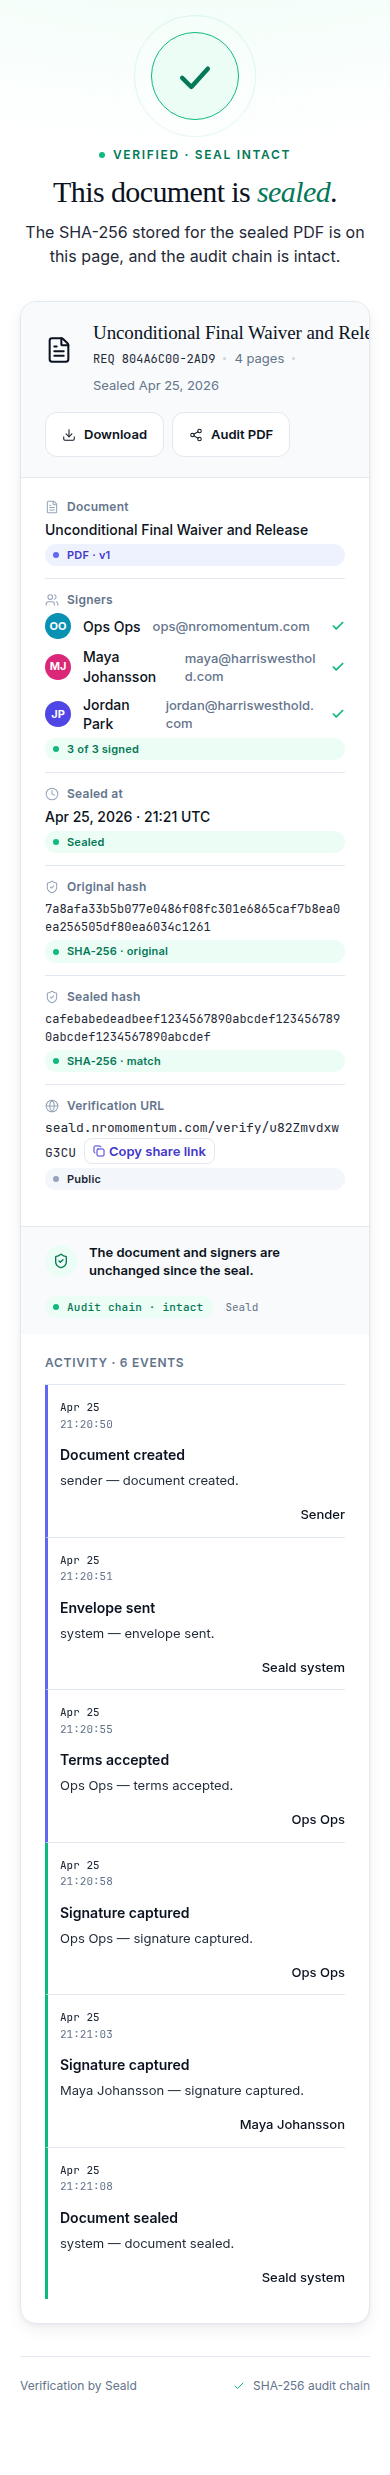
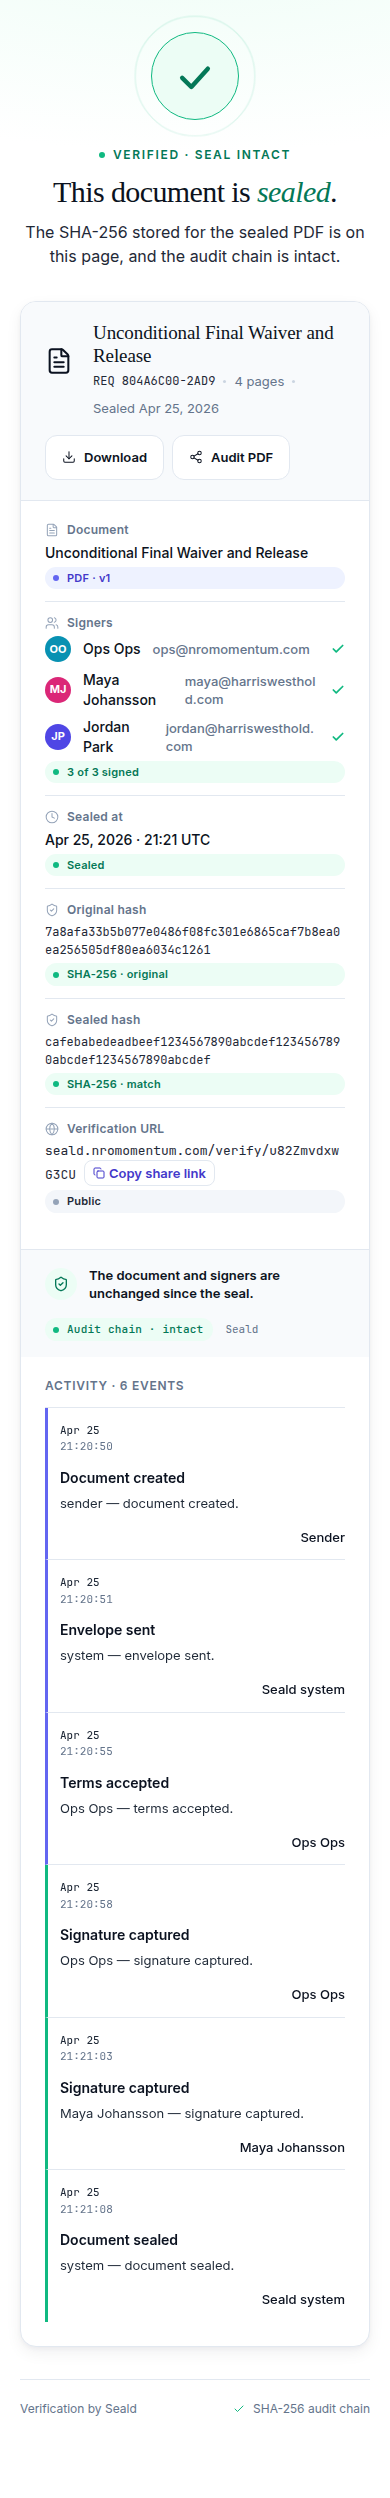
fix(web): show a broken audit chain as danger
A sealed document with a broken chain still used the success variant,
so the page looked intact. The broken state now uses the danger ramp
and the shield-alert icon. The verify card fits at 390 and the
document title wraps.

diff --git a/apps/web/src/pages/VerifyPage/VerifyPage.tsx b/apps/web/src/pages/VerifyPage/VerifyPage.tsx
@@ -202,19 +202,31 @@ interface DerivedView {
 }
 
 function deriveView(envelope: VerifyEnvelope, chainIntact: boolean): DerivedView {
+  if (envelope.status === 'completed' && !chainIntact) {
+    return {
+      variant: 'failed',
+      eyebrow: 'Sealed · audit chain broken',
+      heading: (
+        <>
+          This document is <em className="danger">sealed</em>.
+        </>
+      ),
+      headingAriaLabel: 'Sealed; audit chain broken',
+      body: 'The SHA-256 stored for the sealed PDF is on this page. The audit chain is not intact.',
+      mark: <ShieldAlert aria-hidden />,
+    };
+  }
   if (envelope.status === 'completed') {
     return {
       variant: 'success',
-      eyebrow: chainIntact ? 'Verified · seal intact' : 'Sealed · audit chain broken',
+      eyebrow: 'Verified · seal intact',
       heading: (
         <>
           This document is <em>sealed</em>.
         </>
       ),
-      headingAriaLabel: chainIntact ? 'Sealed and intact' : 'Sealed; audit chain broken',
-      body: chainIntact
-        ? 'The SHA-256 stored for the sealed PDF is on this page, and the audit chain is intact.'
-        : 'The SHA-256 stored for the sealed PDF is on this page. The audit chain is not intact.',
+      headingAriaLabel: 'Sealed and intact',
+      body: 'The SHA-256 stored for the sealed PDF is on this page, and the audit chain is intact.',
       mark: (
         <svg
           viewBox="0 0 24 24"
@@ -436,18 +448,18 @@ function IntegrityCopy({
   signersAll,
   chainIntact,
 }: IntegrityCopyProps) {
-  if (variant === 'failed') {
-    return (
-      <>
-        <strong>This envelope was not sealed.</strong> The audit trail records why.
-      </>
-    );
-  }
   if (sealed && !chainIntact) {
     return (
       <strong>
         The audit chain for this document is broken. Contact the sender before relying on it.
       </strong>
+    );
+  }
+  if (variant === 'failed') {
+    return (
+      <>
+        <strong>This envelope was not sealed.</strong> The audit trail records why.
+      </>
     );
   }
   if (sealed) {
@@ -578,8 +590,10 @@ function VerifyContent({ data }: VerifyContentProps) {
   // a second line on narrow viewports.
   const reqId = `REQ ${data.envelope.id.split('-').slice(0, 2).join('-').toUpperCase()}`;
 
+  const chainBroken = !data.chain_intact;
+  const integrityAlert = view.variant === 'failed' || chainBroken;
   return (
-    <Page $variant={view.variant}>
+    <Page $variant={view.variant} data-variant={view.variant}>
       <Container>
         <Verdict>
           <VerdictMark $variant={view.variant} aria-hidden>
@@ -596,8 +610,8 @@ function VerifyContent({ data }: VerifyContentProps) {
               <div aria-hidden style={{ width: 36, height: 46, flexShrink: 0 }}>
                 <Icon icon={FileText} size={28} />
               </div>
-              <div style={{ minWidth: 0, flex: 1 }}>
-                <DocTitle>{data.envelope.title}</DocTitle>
+              <div style={{ minWidth: 0, flex: 1, maxWidth: '100%' }}>
+                <DocTitle title={data.envelope.title}>{data.envelope.title}</DocTitle>
                 <DocSub>
                   <span className="id">{reqId}</span>
                   <span className="sep" aria-hidden />
@@ -706,14 +720,10 @@ function VerifyContent({ data }: VerifyContentProps) {
             </Fact>
           </Facts>
 
-          <Integrity $failed={view.variant === 'failed'}>
+          <Integrity $failed={integrityAlert}>
             <IntegrityInner>
-              <IntegrityIco $failed={view.variant === 'failed'}>
-                {view.variant === 'failed' ? (
-                  <ShieldAlert aria-hidden />
-                ) : (
-                  <ShieldCheck aria-hidden />
-                )}
+              <IntegrityIco $failed={integrityAlert} data-testid="integrity-icon">
+                {integrityAlert ? <ShieldAlert aria-hidden /> : <ShieldCheck aria-hidden />}
               </IntegrityIco>
               <IntegrityText>
                 <IntegrityCopy
@@ -777,10 +787,10 @@ function VerifyContent({ data }: VerifyContentProps) {
           <FooterLeft>
             <span>Verification by Seald</span>
           </FooterLeft>
-          <FooterRight>
+          <FooterRight $alert={chainBroken}>
             {trustFooterItems().map((label) => (
               <span key={label}>
-                <Check aria-hidden /> {label}
+                {chainBroken ? <ShieldAlert aria-hidden /> : <Check aria-hidden />} {label}
               </span>
             ))}
           </FooterRight>

diff --git a/apps/web/src/pages/VerifyPage/VerifyPage.styles.ts b/apps/web/src/pages/VerifyPage/VerifyPage.styles.ts
@@ -58,6 +58,10 @@ const pulse = keyframes`
 `;
 
 export const Page = styled.main<{ readonly $variant: 'success' | 'failed' | 'neutral' }>`
+  box-sizing: border-box;
+  width: 100%;
+  max-width: 100%;
+  min-width: 0;
   min-height: 100vh;
   font-family: ${({ theme }) => theme.font.sans};
   color: ${({ theme }) => theme.color.fg[1]};
@@ -85,7 +89,10 @@ export const Page = styled.main<{ readonly $variant: 'success' | 'failed' | 'neu
 `;
 
 export const Container = styled.div`
+  box-sizing: border-box;
+  width: 100%;
   max-width: 920px;
+  min-width: 0;
   margin: 0 auto;
   padding: 56px ${({ theme }) => theme.space[12]} ${({ theme }) => theme.space[12]};
 
@@ -200,6 +207,10 @@ export const VerdictBody = styled.p`
 `;
 
 export const Card = styled.section`
+  box-sizing: border-box;
+  width: 100%;
+  max-width: 100%;
+  min-width: 0;
   background: ${({ theme }) => theme.color.paper};
   border: 1px solid ${({ theme }) => theme.color.border[1]};
   border-radius: ${({ theme }) => theme.radius.lg};
@@ -208,6 +219,9 @@ export const Card = styled.section`
 `;
 
 export const CardHead = styled.header`
+  box-sizing: border-box;
+  min-width: 0;
+  max-width: 100%;
   padding: ${({ theme }) => theme.space[5]} ${({ theme }) => theme.space[6]};
   border-bottom: 1px solid ${({ theme }) => theme.color.border[1]};
   display: flex;
@@ -218,7 +232,7 @@ export const CardHead = styled.header`
 
   @media (max-width: 640px) {
     flex-direction: column;
-    align-items: flex-start;
+    align-items: stretch;
   }
 `;
 
@@ -228,6 +242,7 @@ export const DocMeta = styled.div`
   gap: ${({ theme }) => theme.space[3]};
   flex: 1;
   min-width: 0;
+  max-width: 100%;
 `;
 
 export const DocTitle = styled.h2`
@@ -238,9 +253,9 @@ export const DocTitle = styled.h2`
   letter-spacing: -0.005em;
   line-height: 1.2;
   margin: 0 0 4px;
-  white-space: nowrap;
-  overflow: hidden;
-  text-overflow: ellipsis;
+  min-width: 0;
+  max-width: 100%;
+  overflow-wrap: break-word;
 `;
 
 export const DocSub = styled.div`
@@ -729,7 +744,7 @@ export const FooterLeft = styled.div`
   gap: ${({ theme }) => theme.space[2]};
 `;
 
-export const FooterRight = styled.div`
+export const FooterRight = styled.div<{ readonly $alert?: boolean }>`
   display: flex;
   gap: ${({ theme }) => theme.space[4]};
 
@@ -742,7 +757,7 @@ export const FooterRight = styled.div`
   svg {
     width: 12px;
     height: 12px;
-    color: ${({ theme }) => theme.color.success[500]};
+    color: ${({ theme, $alert }) => ($alert ? theme.color.danger[700] : theme.color.success[500])};
   }
 `;
 

diff --git a/apps/web/src/pages/VerifyPage/VerifyPage.test.tsx b/apps/web/src/pages/VerifyPage/VerifyPage.test.tsx
@@ -698,6 +698,18 @@ describe('VerifyPage', () => {
     ).toBeInTheDocument();
     expect(screen.queryByText(/and timestamp are unchanged/i)).not.toBeInTheDocument();
     expect(screen.queryByText(/rfc 3161 timestamp/i)).not.toBeInTheDocument();
+    expect(screen.getByRole('main')).toHaveAttribute('data-variant', 'success');
+    expect(
+      screen.getByTestId('integrity-icon').querySelector('.lucide-shield-check'),
+    ).not.toBeNull();
+    expect(screen.getByRole('contentinfo').querySelector('.lucide-check')).not.toBeNull();
+    expect(document.querySelector('.lucide-shield-alert')).toBeNull();
+    const intactHeading = screen.getByRole('heading', { name: 'Sealed and intact' });
+    expect(intactHeading.querySelector('em')).not.toHaveClass('danger');
+    expect(screen.getByRole('heading', { level: 2 })).toHaveAttribute(
+      'title',
+      SIGNED_PAYLOAD.envelope.title,
+    );
   });
 
   // Verification URL is rendered in the facts panel using the literal
@@ -765,6 +777,27 @@ describe('VerifyPage', () => {
     ).toBeInTheDocument();
     expect(screen.queryByText(/seal intact/i)).not.toBeInTheDocument();
     expect(screen.queryByText(/unchanged since the seal/i)).not.toBeInTheDocument();
+    const page = screen.getByRole('main');
+    expect(page).toHaveAttribute('data-variant', 'failed');
+    const brokenHeading = screen.getByRole('heading', { name: 'Sealed; audit chain broken' });
+    const emphasis = brokenHeading.querySelector('em');
+    expect(emphasis).toHaveClass('danger');
+    expect(emphasis).toHaveStyle({ color: seald.color.danger[700] });
+    const verdictMark = page.querySelector('.lucide-shield-alert')?.parentElement;
+    expect(verdictMark).toHaveStyle({
+      backgroundColor: seald.color.danger[50],
+      color: seald.color.danger[700],
+    });
+    const integrityIcon = screen.getByTestId('integrity-icon');
+    expect(integrityIcon.querySelector('.lucide-shield-alert')).not.toBeNull();
+    expect(integrityIcon.querySelector('.lucide-shield-check')).toBeNull();
+    const footer = screen.getByRole('contentinfo');
+    expect(footer.querySelector('.lucide-shield-alert')).not.toBeNull();
+    expect(footer.querySelector('.lucide-check')).toBeNull();
+    expect(screen.getByRole('heading', { level: 2 })).toHaveAttribute(
+      'title',
+      SIGNED_PAYLOAD.envelope.title,
+    );
   });
 
   // ---- Download attribute (regression: prompt's bug-floor list says

diff --git a/apps/web/src/pages/VerifyPage/VerifyPage.stories.tsx b/apps/web/src/pages/VerifyPage/VerifyPage.stories.tsx
@@ -272,7 +272,9 @@ export const NotFound: Story = {
 /**
  * Tamper-evident audit chain failure. `verifyEventChain` detected a
  * row whose `prev_event_hash` doesn't match the canonical-JSON hash of
- * its predecessor. The eyebrow reads "Sealed · audit chain broken",
+ * its predecessor. The page uses the danger ramp (danger-50 wash,
+ * danger-700 eyebrow, ShieldAlert mark and integrity icon) instead of
+ * the success check. The eyebrow reads "Sealed · audit chain broken",
  * the heading's accessible name is "Sealed; audit chain broken", and
  * the integrity line tells the reader to contact the sender. It does
  * not say the seal is intact or that the document is unchanged.
